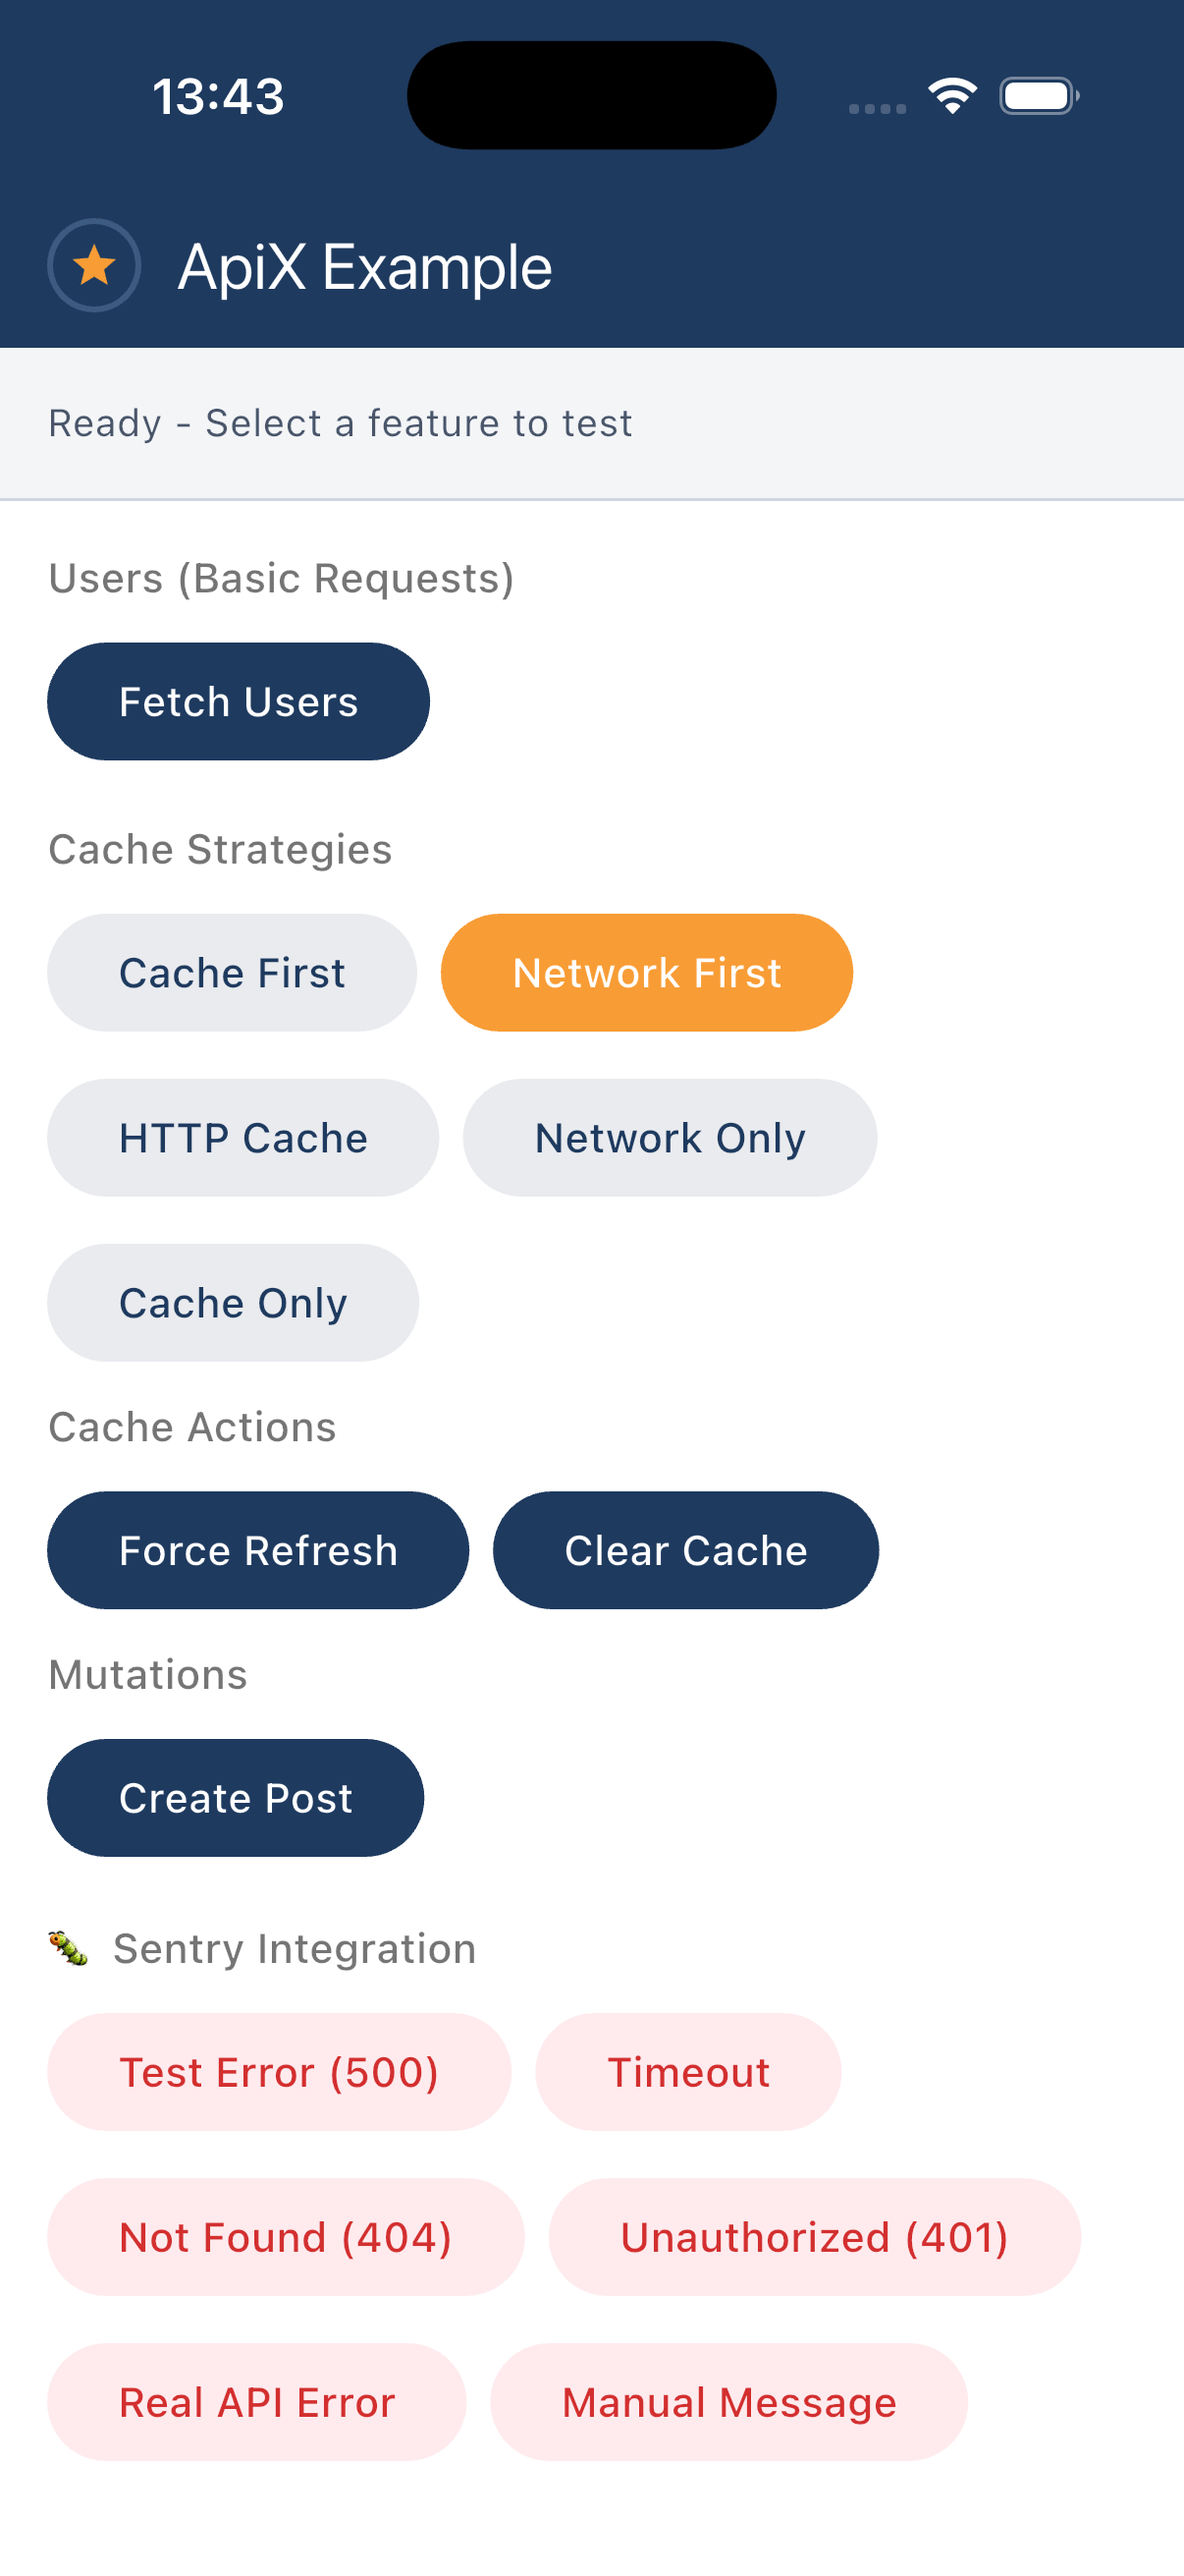
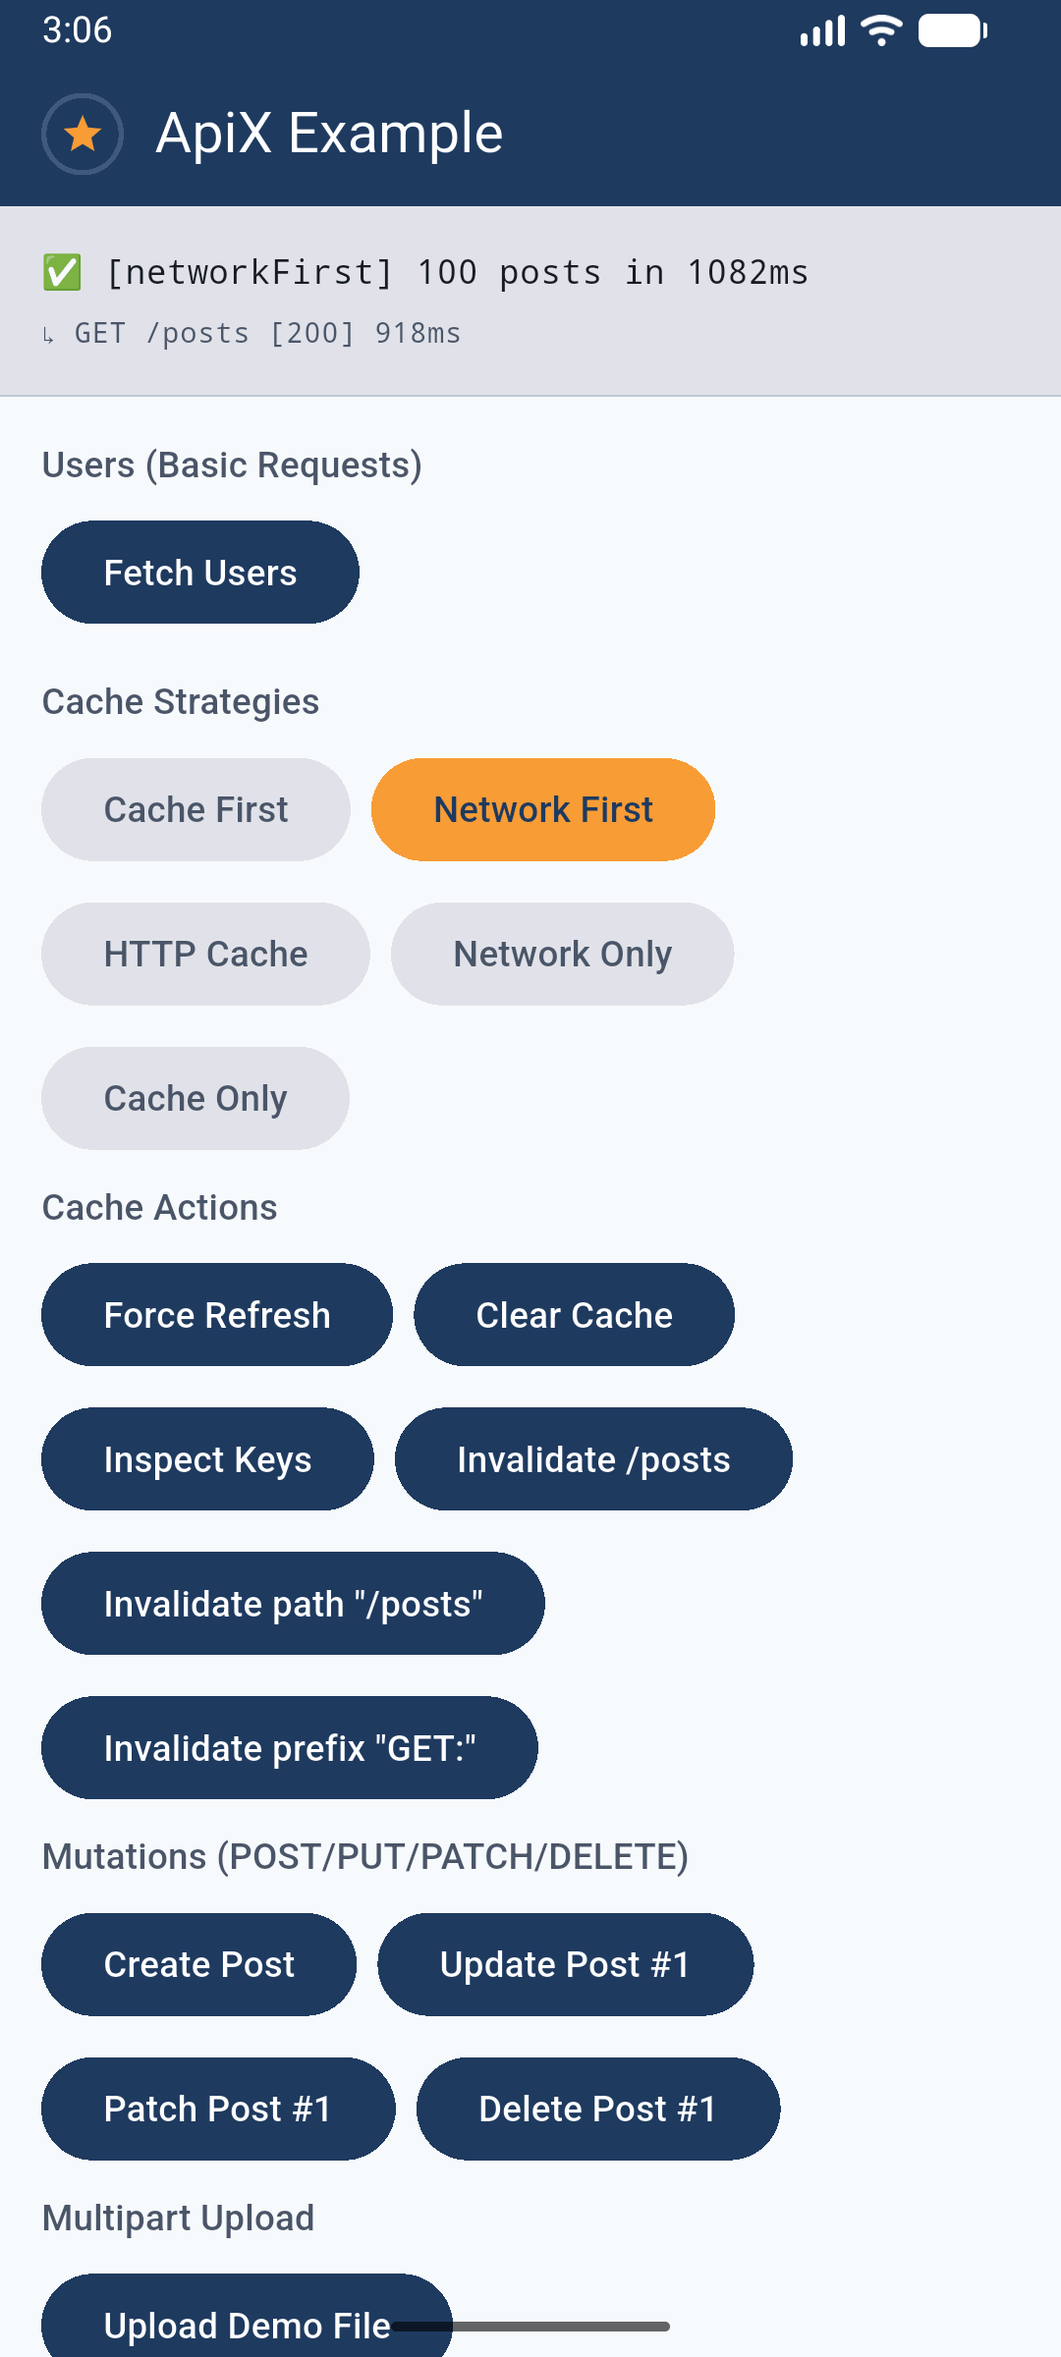
chore(release): prepare 3.0.0
Version bump, CHANGELOG, and the two screenshots the README and the
pub.dev gallery point at.

The old screenshot dated from March and showed an app that no longer
exists — "Cache Actions" with two buttons where there are now eight. The
replacements are two views doing two jobs: the breadth of the demo with
live request metrics, and the v2.1/v2.3/v3.0 sections with real fetched
data. Two crops of the same menu would have carried one piece of
information twice.

pubspec gains a `screenshots:` block, which pub.dev renders as a gallery
independently of the README.

.pubignore drops assets/logo.png and assets/brand_guidelines.md:
referenced by nothing that ships, and logo.png alone was a fifth of the
archive. Repo keeps them; consumers stop downloading them. Archive goes
from 666 KB to 189 KB.

diff --git a/CHANGELOG.md b/CHANGELOG.md
@@ -1,17 +1,95 @@
-## Unreleased
+## 3.0.0
+
+This release is about the cache. Two of its promises were not kept: `cacheFirst`
+did not refresh in the background despite saying so, and the TTL was only as
+strong as whichever `CacheStorage` you plugged in. Both are now true. Error
+tracking also stops flattening every failure into one `DioException`.
+
+### Migration at a glance
+
+| If you… | Then… |
+|---|---|
+| use `CacheStrategy.cacheFirst` | responses may now be **older than `defaultTtl`**. Check `response.isStale`, or move to `networkFirst` where freshness matters |
+| call `CacheRequestExtension.isFromCache(response)` | replace with `response.isFromCache` |
+| implement `CacheStorage` yourself | delete the expiry filter from `get` — keep it in `has` |
+| inspect the argument of `ErrorTrackingConfig.onError` | it is the typed `ApiException` now, not a `DioException`. `e is DioException` stops matching **silently** — use `(e as ApiException).originalError` |
+| catch `on ApiException` around a `cacheOnly` call | you will now actually catch `CacheException`; before, it slipped through |
+| catch `on HttpException` for 4xx/5xx | still works — `ClientException` / `ServerException` are subtypes |
+| use `SentrySetup` with `filterNetworkNoise` | your 5xx start reaching Sentry. Expect **more** events, not fewer — they were being dropped |
+| use nothing but `networkFirst` (the default) | nothing to do |
+
+### ⚠ Breaking behavior
+
+* **`CacheStrategy.cacheFirst` now serves stale data** — it does what it always
+  documented: serve the cache immediately, refresh behind
+  (stale-while-revalidate). An expired entry is returned, flagged `isStale`,
+  while one background request renews it.
+  - Network volume is unchanged: a fresh entry costs nothing, a stale one costs
+    exactly one request — asserted by a test, not assumed. Only the waiting
+    disappears.
+  - **The risk to check**: a response may now be older than `defaultTtl`. Where
+    that is unacceptable — an amount, a balance, an authorisation — use
+    `networkFirst`, or surface `response.isStale`.
+  - Other strategies are unaffected.
+
+### Breaking
+
+* **`ErrorTrackingConfig.onError` receives the typed `ApiException`**, not the
+  raw `DioException`. Trackers group by runtime type, so a 500, a 404 and a
+  timeout used to land in a single issue titled `DioException`. Nothing fails to
+  compile; `e is DioException` just stops matching — reach the original through
+  `(e as ApiException).originalError`.
+
+* **`CacheRequestExtension.isFromCache(response)` removed** — use
+  `response.isFromCache`. The old form was a static on an extension of
+  `RequestOptions` taking a `Response`, so autocomplete never surfaced it.
+
+* **`CacheStorage.get` must no longer filter on expiry** — only affects custom
+  implementations. It returns entries expired or not; `null` means absent. The
+  interceptor owns the TTL, so a backend can no longer weaken it by forgetting
+  to filter. `has` keeps filtering.
+
+### Added
+
+* **`response.isFromCache` / `response.isStale`** — `isStale` is true wherever
+  apix knowingly returns expired data: `cacheFirst` revalidating, and the
+  offline fallback of `networkFirst` / `httpCacheAware`. **On an amount, a
+  balance or a status, surface it.** A `304` is not stale. The underlying keys
+  are exported as `fromCacheKey` / `fromCacheStaleKey`.
+
+* **`FileCacheStorage`** — a cache that survives restarts, with **no new
+  dependency**: one JSON file per entry, in a directory you supply.
+  - **Bounded by default** (`maxEntries: 200`) — a process cache dies with the
+    app, a disk cache does not. Expired entries are evicted first.
+    `maxEntries: null` opts out.
+  - Reads never throw (a corrupt file is a miss, and is discarded); writes are
+    atomic; only its own files are touched.
+  - ⚠ Entries are stored **in clear text** — never point it at credentials,
+    tokens, personal data or amounts.
 
 ### Fixed
 
-* **`ClientException` and `ServerException` were never thrown** (major) — the documented exception hierarchy did not match runtime behaviour
-  - `ErrorMapperInterceptor` specialised only `401`/`403`/`404` and mapped **every** other status, `4xx` and `5xx` alike, to a bare `HttpException`. Neither `ClientException` nor `ServerException` was constructed anywhere in the package, so `on ClientException catch` / `on ServerException catch` — both shown as the canonical usage in the README and in the `http_exception.dart` doc comments — were **dead clauses at every call site**, silently falling through to the next handler.
-  - Every `4xx` without a dedicated subclass now maps to `ClientException`, every `5xx` to `ServerException`. Statuses outside those ranges (a `3xx` reaching the error path, or `0` when no status could be read) stay a bare `HttpException` rather than guessing a fault category.
-  - **Not a breaking change**: both types extend `HttpException`, so existing `on HttpException catch` (and `on ApiException catch`) keep matching exactly as before. Only code asserting an *exact* runtime type is affected.
-  - `401`/`403`/`404` keep their dedicated subclasses, which are themselves `ClientException`s — so `on ClientException` catches a `404` too.
+* **`ClientException` and `ServerException` were never thrown** — `ErrorMapper`
+  specialised only 401/403/404 and mapped everything else to a bare
+  `HttpException`, leaving both clauses dead at every call site despite the
+  documented hierarchy. Unspecialised 4xx now map to `ClientException`, 5xx to
+  `ServerException`; other statuses stay `HttpException`. Not breaking — both
+  are `HttpException` subtypes.
 
-* **ApiX's own errors were being discarded by ApiX's own Sentry filter** (critical) — server errors never reached Sentry
-  - `SentryException.type` is `throwable.runtimeType.toString()`, a **bare** class name with no package qualifier. `SentrySetup.isNetworkNoiseError` matched that name against a list containing `HttpException`, `ClientException` and `TimeoutException` — intended to catch the `dart:io` / `dart:async` types of the same name. Because the names are identical, **every `HttpException` apix produced (i.e. every 5xx and every unspecialised 4xx) was classified as network noise and dropped from `beforeSend`**. The code comment claiming apix types "would be prefixed with a package path" was incorrect; Dart runtime type names are never package-qualified.
-  - ApiX exceptions are now classified from the **type hierarchy** via the event's `throwable`: a `NetworkException` (timeout, connection) is noise, any other `ApiException` is a real error and is reported. Name matching is untouched for everything else, so a genuine `dart:async` `TimeoutException` or `dart:io` `HttpException` is still filtered as before.
-  - `isNetworkNoiseError` had **no test coverage**; it is now covered, including the name-collision case that caused the bug.
+* **ApiX errors were discarded by ApiX's own Sentry filter** — `SentryException.type`
+  is a bare class name, so the noise filter could not tell apix's
+  `HttpException` from `dart:io`'s and **dropped every 5xx**. Classification is
+  now by type hierarchy. Name matching is unchanged for everything else.
+
+* **`CacheException` was not an `ApiException`** — a `cacheOnly` miss escaped
+  the typed-error contract entirely, because `RequestInterceptorHandler.reject`
+  skips the following error interceptors.
+
+* **`cacheOnly` served expired entries** — it now rejects them, distinguishing a
+  miss from an expiry.
+
+* **Cache eviction ignored expiry** — `InMemoryCacheStorage` could drop a fresh
+  entry while keeping a stale one.
 
 ---
 
